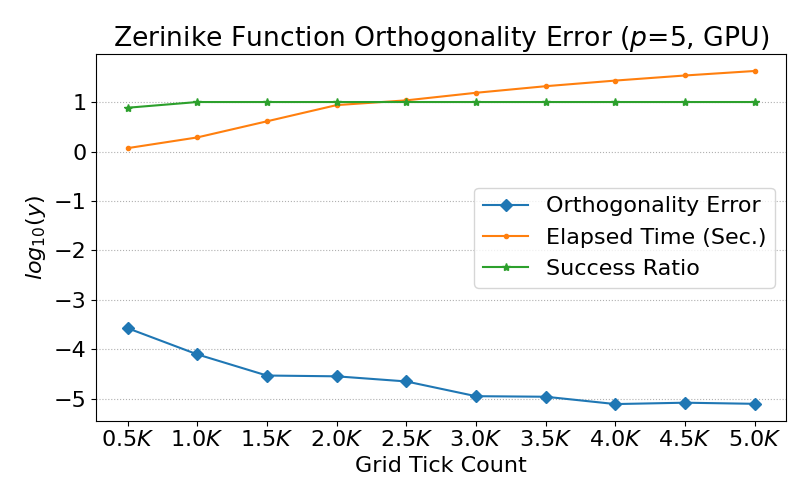
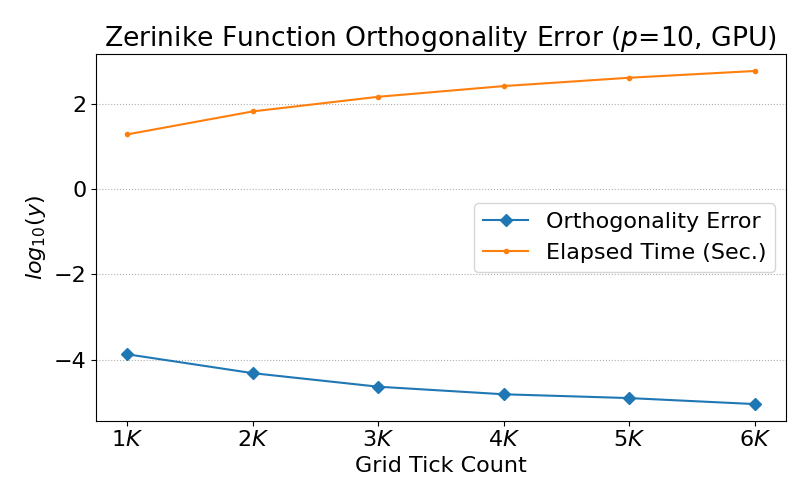
**

diff --git a/ATest_08_Zernike_Orth.py b/ATest_08_Zernike_Orth.py
@@ -303,15 +303,13 @@ pass # -- validte_radial_polynomial
 def test_zernike_function_ortho( T, Ks, use_gpu, use_hash=0, debug = 0 ) : 
     print()
 
-    hash = {}
-    hash = None
+    hash = {} if use_hash else None
     device_no = 0  
     device = torch.device( f"cuda:{device_no}" ) if use_gpu else torch.device( f"cpu" )
     dn = device_name = "GPU" if use_gpu else "CPU"
 
     print( f"device = {device_name}, hash = { hash is not None }" )
 
-    success_ratios = []
     error_avgs = []
     elapsed_list = []
 
@@ -327,38 +325,32 @@ def test_zernike_function_ortho( T, Ks, use_gpu, use_hash=0, debug = 0 ) :
 
         rho, theta, x, y, dx, dy, k, area = rho_theta( resolution, circle_type="inner", device=device, debug=debug )
         
-        good_cnt = 0 
-        fail_cnt = 0 
-
         error_sum = 0
         
         hash= {}
         
-        for p1 in range( 0, T + 1 ) :
-            for q1 in range( -p1, p1 + 1, 2 ) :
-                for p2 in range( 0, T +1 ) :
-                    for q2 in range( -p2, p2 + 1, 2 ) : 
-                        v_pl = Vpq( p1, q1, rho, theta, device=device, hash=hash, debug=debug )
-                        v_ql = Vpq( p2, q2, rho, theta, device=device, hash=hash, debug=debug )
+        cnt = 0 
+        for p in range( 0, T + 1 ) :
+            for q in range( -p, p + 1, 2 ) :
+                for n in range( 0, T + 1 ) :
+                    for m in range( -n, n + 1, 2 ) : 
+                        v_pl = Vpq( p, q, rho, theta, device=device, hash=hash, debug=debug )
+                        v_ql = Vpq( n, m, rho, theta, device=device, hash=hash, debug=debug )
 
                         sum_arr = torch.sum( torch.conj(v_pl)*v_ql )
-                        sum_integration = sum_arr*dx*dy*(p1 +1)/pi
+                        sum_integration = sum_arr*dx*dy*(p +1)/pi
                         sum = torch.absolute( sum_integration )
 
-                        expect = [0, 1][ p1 == p2 and q1 == q2 ]
+                        expect = [0, 1][ p == n and q == m ]
                         error = abs(expect -sum)
                         error_sum += error
-                        success = error < 1/1_000 
-                        success_t = 'Good' if success else 'Fail'
-
-                        good_cnt += success
-                        fail_cnt += (not success)
 
                         if not use_hash :
                             del v_pl, v_ql, sum_arr, sum_integration
                         pass
 
-                        if debug : print( f"[{p1:02d}][{q1:02d}] {success_t} : V*pl({p1}, {q1:2d})*Vpl({p2}, {q2:2d}) = {sum:.4f}, exptect = {expect}, error={error:.4f}", flush=1 )
+                        if debug : print( f"[{cnt:04d}] : V*pl({p}, {q:2d})*Vpl({n}, {m:2d}) = {sum:.4f}, exptect = {expect}, error={error:.4f}", flush=1 )
+                        cnt += 1
                     pass
                 pass
             pass
@@ -366,9 +358,7 @@ def test_zernike_function_ortho( T, Ks, use_gpu, use_hash=0, debug = 0 ) :
 
         del hash
 
-        success_ratio = good_cnt/(good_cnt + fail_cnt)
-        success_ratios.append( success_ratio )
-        error_avg = error_sum/(good_cnt + fail_cnt)
+        error_avg = error_sum/cnt
         error_avgs.append( error_avg )
         
         elapsed = time.time() - then
@@ -395,13 +385,10 @@ def test_zernike_function_ortho( T, Ks, use_gpu, use_hash=0, debug = 0 ) :
 
     Ks = torch.tensor( Ks )
     error_avgs = torch.log10( torch.tensor( error_avgs ) )
-    success_ratios = torch.tensor( success_ratios )
-    elapsed_list = torch.tensor( elapsed_list )
-    elapsed_list = torch.log10( elapsed_list )
+    elapsed_list = torch.log10( torch.tensor( elapsed_list ) )
 
-    chart.plot( Ks, error_avgs, marker="D", label="Orthogonality Error" )
+    chart.plot( Ks, error_avgs, marker="D", label="Orthogonality Error Avg." )
     chart.plot( Ks, elapsed_list, marker=".", label="Elapsed Time (Sec.)" )
-    chart.plot( Ks, success_ratios, marker="*", label="Success Ratio" )
 
     chart.set_title( f"Zerinike Function Orthogonality Error ($p$={T}, {device_name})" )
     chart.set_xlabel( "Grid Tick Count" )
